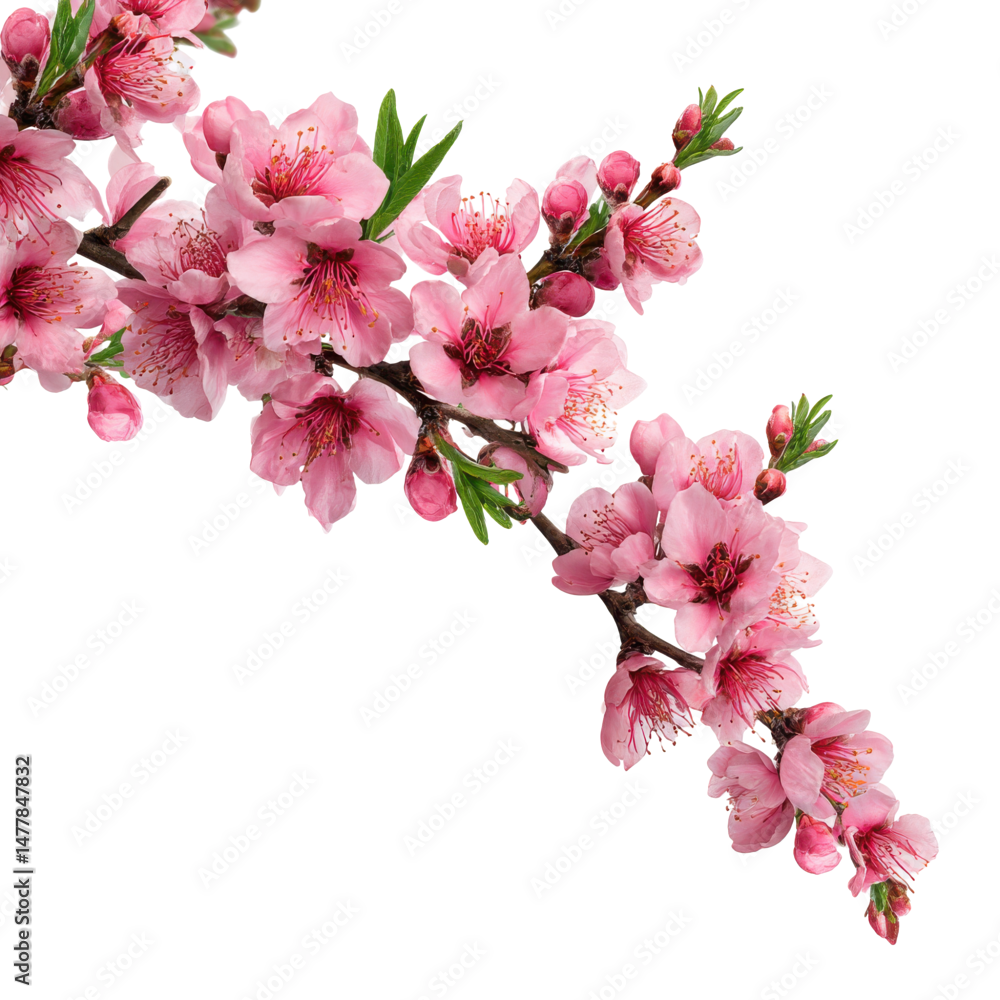
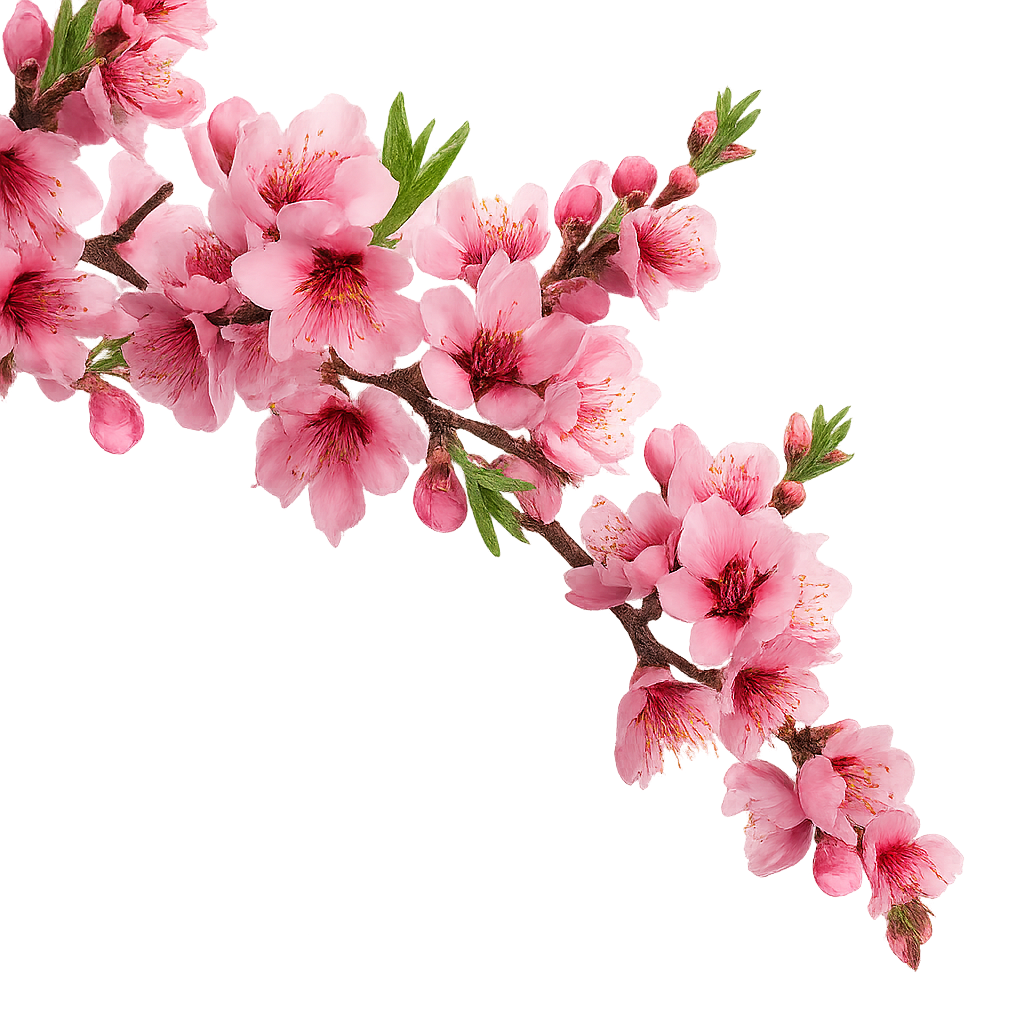
Better flower images and fixed text display issue for menu page on mobile

Changed region(s): [[0.0, 0.0, 0.93, 0.961], [0.0, 0.744, 0.031, 0.992]]

diff --git a/menu.html b/menu.html
@@ -268,7 +268,7 @@
                                         <span class="dietary-info gluten-free">Gluten-Free</span>
                                     </td>
                                     <td data-label="Toppings/Sides">Pumpkin seed pesto, smoked honey</td>
-                                    <td data-label="Notes from the Tasting">Lauren's favorite - perfectly sweet, light, creamy, and refreshing</td>
+                                    <td data-label="Tasting Notes">Lauren's favorite - perfectly sweet, light, creamy, and refreshing</td>
                                 </tr>
                                 <tr>
                                     <td data-label="Dish">
@@ -279,7 +279,7 @@
                                         <span class="dietary-info gluten-free">Gluten-Free</span>
                                     </td>
                                     <td data-label="Toppings/Sides">Horseradish aioli</td>
-                                    <td data-label="Notes from the Tasting">Crunchy, savory, and filling - a nice, easy bite to mix things up</td>
+                                    <td data-label="Tasting Notes">Crunchy, savory, and filling - a nice, easy bite to mix things up</td>
                                 </tr>
                                 <tr>
                                     <td data-label="Dish">
@@ -289,7 +289,7 @@
                                         <span class="dietary-info vegetarian">Vegetarian</span>
                                     </td>
                                     <td data-label="Toppings/Sides">Sunflower seed pesto</td>
-                                    <td data-label="Notes from the Tasting">Nicholas' favorite - the perfect blend of fresh, sweet, crunchy, and salty</td>
+                                    <td data-label="Tasting Notes">Nicholas' favorite - the perfect blend of fresh, sweet, crunchy, and salty</td>
                                 </tr>
                                 <tr>
                                     <td data-label="Dish">
@@ -299,7 +299,7 @@
                                         <span class="dietary-info gluten-free">Gluten-Free</span>
                                     </td>
                                     <td data-label="Toppings/Sides">Tomato jam, shaved pecorino</td>
-                                    <td data-label="Notes from the Tasting">An absolute crowd pleaser - hearty, flavorful, and comforting</td>
+                                    <td data-label="Tasting Notes">An absolute crowd pleaser - hearty, flavorful, and comforting</td>
                                 </tr>
                             </tbody>
                         </table>
@@ -327,7 +327,7 @@
                                         <span class="dietary-info gluten-free">Gluten-Free</span>
                                     </td>
                                     <td data-label="Toppings/Sides">Pears, grilled dates, aged goat cheese, mandarin vinaigrette</td>
-                                    <td data-label="Notes from the Tasting">Light, sharp palate cleanser with bitter and fruity notes</td>
+                                    <td data-label="Tasting Notes">Light, sharp palate cleanser with bitter and fruity notes</td>
                                 </tr>
                             </tbody>
                         </table>
@@ -356,7 +356,7 @@
                                         <span class="dietary-info gluten-free">Gluten-Free</span>
                                     </td>
                                     <td data-label="Toppings/Sides">Green harissa, golden raisin, preserved lemon, arugula, white rice</td>
-                                    <td data-label="Notes from the Tasting">Lauren's favorite - hearty, warm, vegetarian (and vegan too!) dish served curry-style over rice</td>
+                                    <td data-label="Tasting Notes">Lauren's favorite - hearty, warm, vegetarian (and vegan too!) dish served curry-style over rice</td>
                                 </tr>
                                 <tr>
                                     <td data-label="Dish">
@@ -366,7 +366,7 @@
                                         <span class="dietary-info gluten-free">Gluten-Free</span>
                                     </td>
                                     <td data-label="Toppings/Sides">Walnut pesto, baby carrot, japanese sweet potato, apple vinaigrette</td>
-                                    <td data-label="Notes from the Tasting">Nicholas' favorite - absolutely divine, juicy white chicken served on a bed of delectable, creamy vegetables</td>
+                                    <td data-label="Tasting Notes">Nicholas' favorite - absolutely divine, juicy white chicken served on a bed of delectable, creamy vegetables</td>
                                 </tr>
                                 <tr>
                                     <td data-label="Dish">
@@ -376,7 +376,7 @@
                                         <span class="dietary-info vegetarian">Vegetarian</span>
                                     </td>
                                     <td data-label="Toppings/Sides">Rapini, green garlic, green cabbage, chamomile butter</td>
-                                    <td data-label="Notes from the Tasting">Rich, cheesy, and fresh - the potato-based pasta born to be a crowd pleaser</td>
+                                    <td data-label="Tasting Notes">Rich, cheesy, and fresh - the potato-based pasta born to be a crowd pleaser</td>
                                 </tr>
                                 <tr>
                                     <td data-label="Dish">
@@ -387,7 +387,7 @@
                                         <span class="dietary-info dairy-free">Dairy-Free</span>
                                     </td>
                                     <td data-label="Toppings/Sides">White beans, chile honey, rapini, pecan</td>
-                                    <td data-label="Notes from the Tasting">Savory, meat-forward meal cooked to perfection</td>
+                                    <td data-label="Tasting Notes">Savory, meat-forward meal cooked to perfection</td>
                                 </tr>
                             </tbody>
                         </table>
@@ -414,7 +414,7 @@
                                         <span class="dietary-info vegetarian">Vegetarian</span>
                                     </td>
                                     <td data-label="Toppings/Sides">Coming soon...</td>
-                                    <td data-label="Notes from the Tasting">Coming soon...</td>
+                                    <td data-label="Tasting Notes">Coming soon...</td>
                                 </tr>
                                 <tr>
                                     <td data-label="Dish">
@@ -424,7 +424,7 @@
                                         <span class="dietary-info vegetarian">Vegetarian</span>
                                     </td>
                                     <td data-label="Toppings/Sides">Coming soon...</td>
-                                    <td data-label="Notes from the Tasting">Coming soon...</td>
+                                    <td data-label="Tasting Notes">Coming soon...</td>
                                 </tr>
                             </tbody>
                         </table>
@@ -451,7 +451,7 @@
                                         <span class="dietary-info vegetarian">Vegetarian</span>
                                     </td>
                                     <td data-label="Toppings/Sides">Tomato jam</td>
-                                    <td data-label="Notes from the Tasting">Grilled Cheese!? Need we say more?</td>
+                                    <td data-label="Tasting Notes">Grilled Cheese!? Need we say more?</td>
                                 </tr>
                             </tbody>
                         </table>

diff --git a/index.html b/index.html
@@ -74,7 +74,7 @@
                         </div>
                     </div>
                 </div>
-                
+
                 <div class="welcome-message">
                     <h2>We're Getting Married!</h2>
                     <p>We are so excited to celebrate our special day with our family and friends. Our journey together has been filled with love, laughter, and countless memories, and we can't wait to begin this new chapter of our lives with you by our side.</p>
